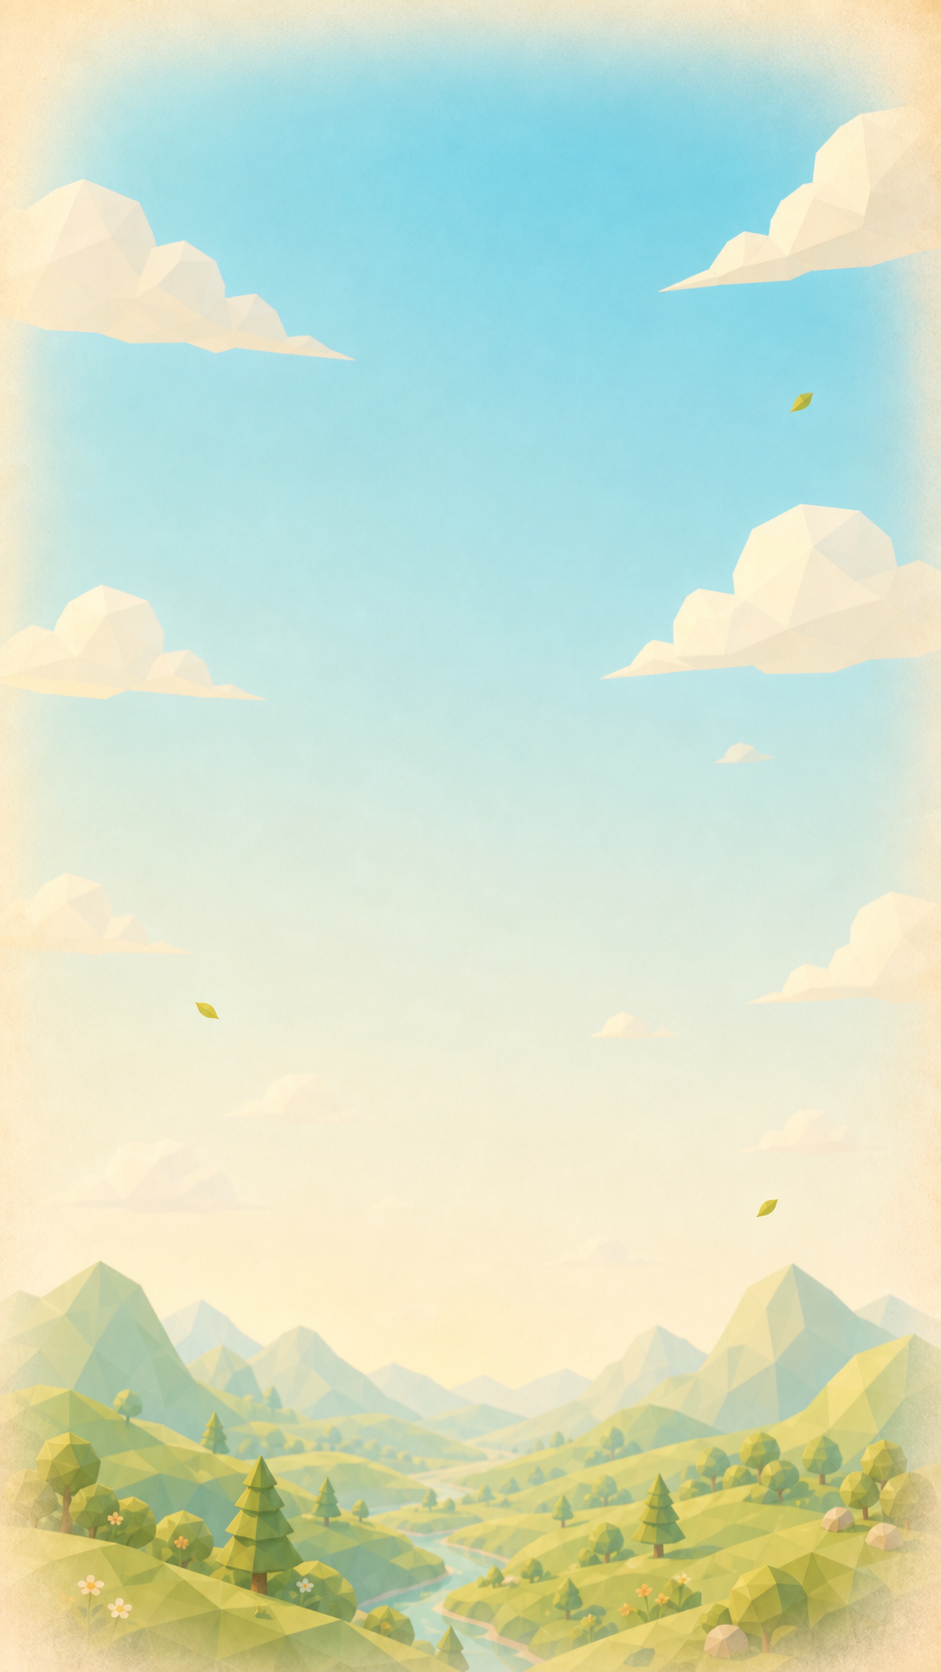
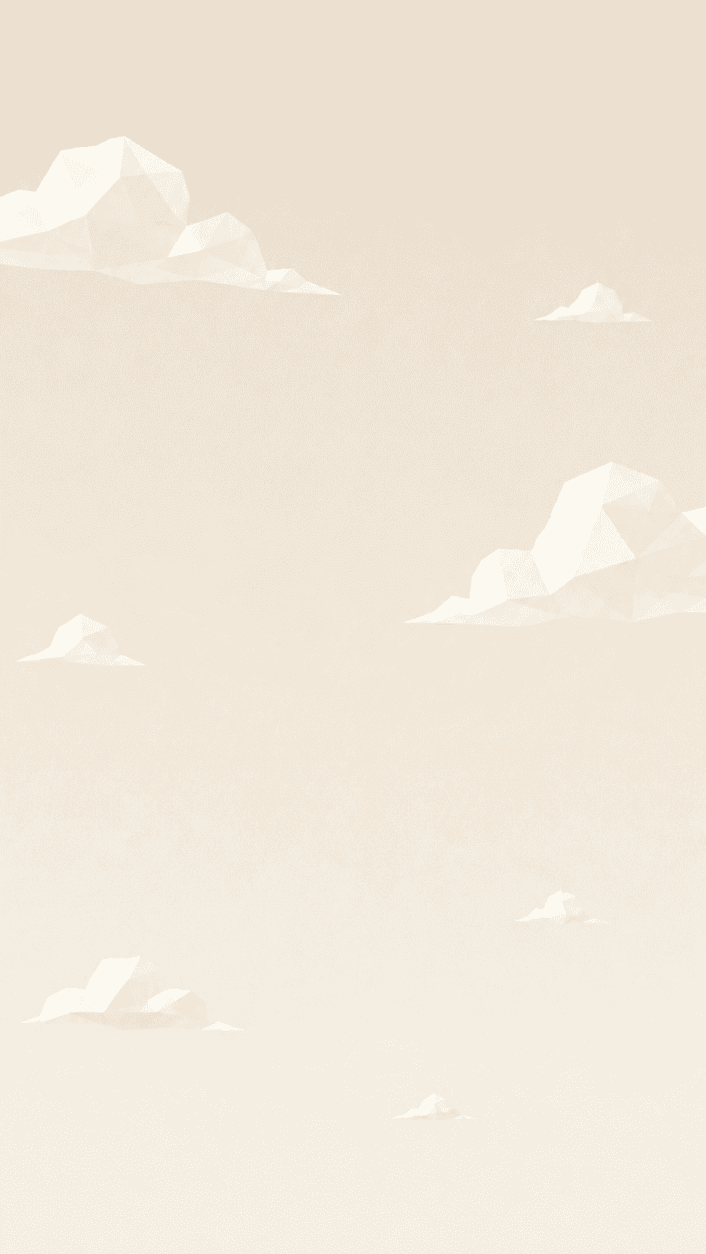
移除不再使用的 home-sky-ref.png 文件，更新 home-sky-soft.png 文件。调整 SceneCanvas 和 SkyWeather 组件以优化光照系统，改为固定的太阳和天气设置，简化代码结构。更新 House 组件以移除烟雾效果，优化 HUD 组件的样式和布局，提升用户体验。

diff --git a/src/components/scenes3d/SkyWeather.tsx b/src/components/scenes3d/SkyWeather.tsx
@@ -1,16 +1,9 @@
 "use client";
 
-import { useFrame } from "@react-three/fiber";
-import { useMemo, useRef } from "react";
 import * as THREE from "three";
 
-import { flatMaterial } from "./materials";
-
-// A small SUN + WEATHER system for the diorama. A directional "sun" arcs across
-// the sky on a slow day cycle (warm at the horizons, brighter+whiter at noon),
-// dragging the ambient/hemisphere fills with it; a drifting low-poly cloud layer
-// sits on top. Deliberately self-contained: it OWNS the scene's lights when
-// mounted, so SceneCanvas renders it instead of the static lights.
+// A small fixed SUN + WEATHER light rig for the diorama. It owns the scene's
+// lights when mounted, so SceneCanvas renders it instead of the static lights.
 // Kept light on purpose — only sunshine ("clear") and overcast ("cloudy"); the
 // sun does NOT cast real-time shadows (that was the home scene's biggest GPU
 // cost + WebGL-context-loss trigger). Grounding comes from SceneCanvas's cheap
@@ -41,109 +34,31 @@ function sunAt(t: number) {
   return { dir, color, intensity, elev, inDay };
 }
 
-function Cloud({ scale }: { scale: number }) {
-  const mat = flatMaterial("#fefdfa");
-  const puffs: [number, number, number, number][] = [
-    [0, 0, 0, 0.8],
-    [0.7, 0.04, 0.1, 0.58],
-    [-0.62, 0.02, -0.08, 0.54],
-    [0.18, 0.24, -0.05, 0.5],
-    [-0.2, 0.18, 0.12, 0.46],
-  ];
-  return (
-    <group scale={scale}>
-      {puffs.map(([x, y, z, r], i) => (
-        <mesh key={i} position={[x, y, z]} material={mat} scale={[1.3, 0.8, 1]}>
-          <icosahedronGeometry args={[r, 0]} />
-        </mesh>
-      ))}
-    </group>
-  );
-}
-
-function Clouds({ count }: { count: number }) {
-  const group = useRef<THREE.Group>(null);
-  const data = useMemo(
-    () =>
-      Array.from({ length: count }, (_, i) => {
-        const s = Math.sin(i * 53.7) * 1000;
-        const r = (n: number) => {
-          const v = Math.sin(i * 12.9 + n) * 4375.85;
-          return v - Math.floor(v);
-        };
-        return {
-          x: (r(1) - 0.5) * 26,
-          y: 11.5 + r(2) * 3.5, // up in the sky, clear of the house
-          z: -3 - r(3) * 10, // set back behind the diorama
-          scale: 0.95 + r(4) * 1.05,
-          speed: 0.15 + r(5) * 0.2,
-          phase: s - Math.floor(s),
-        };
-      }),
-    [count],
-  );
-  useFrame((_, dt) => {
-    const g = group.current;
-    if (!g) return;
-    g.children.forEach((c, i) => {
-      c.position.x += data[i].speed * dt;
-      if (c.position.x > 14) c.position.x = -14;
-    });
-  });
-  return (
-    <group ref={group}>
-      {data.map((d, i) => (
-        <group key={i} position={[d.x, d.y, d.z]}>
-          <Cloud scale={d.scale} />
-        </group>
-      ))}
-    </group>
-  );
-}
-
 export default function SkyWeather({
   weather = "clear",
-  speed = 0,
   start = 0.47,
 }: {
   weather?: Weather;
-  speed?: number; // day fraction per second. Home defaults to fixed noon.
+  speed?: number; // retained for API compatibility; the home light is fixed.
   start?: number; // initial time-of-day (0.47 = soft late morning)
 }) {
-  const sun = useRef<THREE.DirectionalLight>(null);
-  const hemi = useRef<THREE.HemisphereLight>(null);
-  const amb = useRef<THREE.AmbientLight>(null);
-  const t = useRef(start);
+  const s = sunAt(start);
   const wDim = weather === "clear" ? 1 : 0.8;
-  const clouds = weather === "clear" ? 4 : 8;
-
-  useFrame((_, dt) => {
-    t.current = (t.current + dt * speed) % 1;
-    const s = sunAt(t.current);
-    if (sun.current) {
-      sun.current.position.copy(s.dir);
-      sun.current.color.copy(s.color);
-      sun.current.intensity = s.intensity * wDim;
-    }
-    if (amb.current)
-      amb.current.intensity = (0.34 + s.elev * 0.08) * (weather === "cloudy" ? 1.1 : 1);
-    if (hemi.current) hemi.current.intensity = (0.46 + s.elev * 0.12) * wDim;
-  });
+  const ambientIntensity = (0.34 + s.elev * 0.08) * (weather === "cloudy" ? 1.1 : 1);
+  const hemiIntensity = (0.46 + s.elev * 0.12) * wDim;
 
   return (
     <>
-      <hemisphereLight ref={hemi} args={["#fffdfa", "#eadbbd", 0.54]} />
-      <ambientLight ref={amb} intensity={0.4} color="#fff7ee" />
-      {/* day-cycle sun — lights only, no real-time shadow map (see file header) */}
+      <hemisphereLight args={["#fffdfa", "#eadbbd", hemiIntensity]} />
+      <ambientLight intensity={ambientIntensity} color="#fff7ee" />
+      {/* fixed sun — lights only, no real-time shadow map (see file header) */}
       <directionalLight
-        ref={sun}
-        position={[8, 12, 5]}
-        intensity={1.86}
-        color="#fff1d2"
+        position={[s.dir.x, s.dir.y, s.dir.z]}
+        intensity={s.intensity * wDim}
+        color={s.color}
       />
       {/* cool sky bounce so shadowed faces still read */}
       <directionalLight position={[-7, 5, -3]} intensity={0.36} color="#d7e5f8" />
-      <Clouds count={clouds} />
     </>
   );
 }

diff --git a/src/components/scenes3d/home/parts/House.tsx b/src/components/scenes3d/home/parts/House.tsx
@@ -1,8 +1,8 @@
 "use client";
 
 import { RoundedBox } from "@react-three/drei";
-import { useFrame, type ThreeEvent } from "@react-three/fiber";
-import { useMemo, useRef } from "react";
+import type { ThreeEvent } from "@react-three/fiber";
+import { useMemo } from "react";
 import * as THREE from "three";
 import { getDestination } from "@/game/destinations";
 import type { DestinationTheme } from "@/game/types";
@@ -501,26 +501,8 @@ function RoofSlope({
   );
 }
 
-// A stone chimney with a lazily rising, looping plume of faceted smoke puffs —
-// the cottage's "someone's home" signal (placed in the roof group's local space).
+// A small stone chimney placed in the roof group's local space.
 function Chimney() {
-  const smoke = useRef<THREE.Group>(null);
-  useFrame((s) => {
-    const g = smoke.current;
-    if (!g) return;
-    const t = s.clock.elapsedTime;
-    const n = g.children.length;
-    g.children.forEach((c, i) => {
-      const mesh = c as THREE.Mesh;
-      const phase = ((t / 4.2 + i / n) % 1 + 1) % 1;
-      mesh.position.y = phase * 2.4;
-      mesh.position.x = Math.sin(phase * 3 + i) * 0.26;
-      // big billowing puffs: start chunky off the stack, swell as they rise
-      mesh.scale.setScalar(0.7 + phase * 1.25);
-      const mat = mesh.material as THREE.MeshStandardMaterial;
-      mat.opacity = 0.72 * (1 - phase) * Math.min(1, phase * 4);
-    });
-  });
   return (
     <group position={[0.55, 0.72, -1.0]}>
       {/* gray faceted STONE stack on the right slope */}
@@ -545,21 +527,6 @@ function Chimney() {
         <boxGeometry args={[0.58, 0.14, 0.58]} />
         {m("#6f6759")}
       </mesh>
-      <group ref={smoke} position={[0, 1.34, 0]}>
-        {Array.from({ length: 8 }).map((_, i) => (
-          <mesh key={i}>
-            <icosahedronGeometry args={[0.28, 0]} />
-            <meshStandardMaterial
-              color="#f4f1ea"
-              transparent
-              opacity={0.62}
-              roughness={1}
-              flatShading
-              depthWrite={false}
-            />
-          </mesh>
-        ))}
-      </group>
     </group>
   );
 }
@@ -764,7 +731,7 @@ export default function House({
             <Beam a={[gx, 0.04, 2.22]} b={[gx, 1.78, 0.04]} w={0.15} color={WOOD} />
           </group>
         ))}
-        {/* gray STONE chimney + big smoke, on the RIGHT slope above the hearth */}
+        {/* gray STONE chimney on the RIGHT slope above the hearth */}
         <Chimney />
       </group>
 
@@ -948,8 +915,8 @@ export default function House({
           <MiniCapy pos={[0.2, 0.04, 0]} />
         </group>
         <Frame pos={[-2.5, 1.42, ZB + 0.12]} color="#9ec3d6" w={0.36} h={0.42} />
-        {/* (indoor stone fireplace + chimney breast removed per request — the
-            loft is kept simple; only the small roof chimney + smoke remain) */}
+      {/* (indoor stone fireplace + chimney breast removed per request — the
+            loft is kept simple; only the small roof chimney remains) */}
       </group>
 
       {/* outdoor notice board by the entrance (diegetic -> album). Self-contained

diff --git a/src/components/screens/HomeScreen.tsx b/src/components/screens/HomeScreen.tsx
@@ -56,12 +56,9 @@ function HudIconTile({
     <button
       onClick={onClick}
       aria-label={label}
-      className="ui-wood-surface ui-wood-press pointer-events-auto grid h-[66px] w-[58px] shrink-0 place-items-center rounded-[18px] pb-1.5 pt-1.5 text-ink"
+      className="ui-wood-surface ui-wood-press pointer-events-auto grid h-11 w-11 shrink-0 place-items-center rounded-full text-ink"
     >
-      <Icon name={icon} className="h-8 w-8 drop-shadow-[0_3px_2px_rgba(126,83,38,0.2)]" />
-      <span className="font-hand text-[12px] font-bold leading-none text-[#6b4f2e]">
-        {label}
-      </span>
+      <Icon name={icon} className="h-7 w-7 drop-shadow-[0_3px_2px_rgba(126,83,38,0.18)]" />
     </button>
   );
 }
@@ -237,27 +234,27 @@ export default function HomeScreen() {
         </SceneCanvas>
       </div>
 
-      {/* game HUD: owner pill + large tactile shortcut tiles */}
+      {/* game HUD: owner pill + compact controls */}
       <div className="pointer-events-none absolute inset-x-0 top-0 z-10 flex items-start justify-between gap-2 px-3.5 pt-4">
         <motion.button
           onClick={() => goTo("profile")}
           initial={{ opacity: 0, y: -8 }}
           animate={{ opacity: 1, y: 0 }}
           transition={{ duration: 0.4, ease: "easeOut" }}
-          className="ui-wood-surface ui-wood-press pointer-events-auto relative flex h-[72px] min-w-0 max-w-[calc(100%-128px)] flex-1 items-center rounded-[31px] py-2.5 pl-[80px] pr-4 text-left"
+          className="ui-wood-surface ui-wood-press pointer-events-auto relative flex h-16 w-[270px] max-w-[calc(100%-96px)] items-center rounded-[28px] py-2 pl-[70px] pr-3.5 text-left"
         >
           <span className="absolute left-2 top-1/2 -translate-y-1/2">
-            <span className="ui-icon-well h-[66px] w-[66px] rounded-full shadow-[0_8px_14px_-6px_rgba(90,60,30,0.42)]">
-              <CapyAvatar className="h-[58px] w-[58px] shrink-0" />
+            <span className="ui-icon-well h-[56px] w-[56px] rounded-full shadow-[0_8px_14px_-6px_rgba(90,60,30,0.4)]">
+              <CapyAvatar className="h-12 w-12 shrink-0" />
             </span>
           </span>
           <span className="min-w-0">
-            <span className="block truncate font-hand text-[22px] leading-none text-[#4f3828]">
+            <span className="block truncate font-hand text-[20px] leading-none text-[#4f3828]">
               {companion.name}
             </span>
-            <span className="mt-2 flex items-center gap-1.5 whitespace-nowrap text-[12px] leading-none text-ink-soft">
-              <LeafGlyph className="h-4 w-4" />
-              <span className="font-hand text-[14px] font-bold text-leaf">Lv.{stats.level}</span>
+            <span className="mt-1.5 flex items-center gap-1.5 whitespace-nowrap text-[11px] leading-none text-ink-soft">
+              <LeafGlyph className="h-3.5 w-3.5" />
+              <span className="font-hand text-[13px] font-bold text-leaf">Lv.{stats.level}</span>
               <span className="text-ink-soft/55">·</span>
               <span>{stats.days} 天</span>
             </span>
@@ -268,7 +265,7 @@ export default function HomeScreen() {
           initial={{ opacity: 0, y: -8 }}
           animate={{ opacity: 1, y: 0 }}
           transition={{ duration: 0.4, delay: 0.05, ease: "easeOut" }}
-          className="pointer-events-auto grid shrink-0 grid-cols-2 gap-2"
+          className="pointer-events-auto grid shrink-0 grid-cols-2 gap-1.5"
         >
           {bound && (
             <>

diff --git a/src/components/scenes3d/SceneCanvas.tsx b/src/components/scenes3d/SceneCanvas.tsx
@@ -24,8 +24,8 @@ interface SceneCanvasProps {
   minPolar?: number;
   maxPolar?: number;
   sun?: boolean; // enable a real shadow-casting sun
-  // Opt into the dynamic SUN + WEATHER system (a day-cycle sun + drifting clouds
-  // + optional rain). Replaces the static lights; the home diorama uses it.
+  // Opt into the dynamic SUN + WEATHER light system. Replaces the static lights;
+  // the home diorama uses it.
   sky?: boolean;
   weather?: Weather;
   // Opt into a Rapier (Rust→WASM) physics world wrapping the scene content.
@@ -237,7 +237,7 @@ export default function SceneCanvas({
       {sun && <ShadowEnabler />}
       {sky ? (
         <>
-          {/* dynamic day-cycle sun + drifting clouds + optional rain */}
+          {/* fixed sun + fill lights */}
           <SkyWeather weather={weather} />
           {/* soft contact shadows (小阴影) under the ground-level objects — adds
               grounding/depth without darkening the bright scene. far is low so it
@@ -248,7 +248,7 @@ export default function SceneCanvas({
             resolution={256}
             blur={2.6}
             far={1.7}
-            opacity={0.24}
+            opacity={0.32}
             color="#8a6a48"
           />
         </>

diff --git a/src/components/ui/MusicToggle.tsx b/src/components/ui/MusicToggle.tsx
@@ -30,12 +30,9 @@ export default function MusicToggle() {
       onClick={toggle}
       aria-label={on ? "关闭背景音乐" : "开启背景音乐"}
       aria-pressed={on}
-      className="ui-wood-surface ui-wood-press pointer-events-auto grid h-[66px] w-[58px] shrink-0 place-items-center rounded-[18px] pb-1.5 pt-1.5 text-ink"
+      className="ui-wood-surface ui-wood-press pointer-events-auto grid h-11 w-11 shrink-0 place-items-center rounded-full text-ink"
     >
-      <NoteIcon on={on} className="h-8 w-8 drop-shadow-[0_2px_2px_rgba(126,83,38,0.18)]" />
-      <span className="font-hand text-[12px] font-bold leading-none text-[#6b4f2e]">
-        音乐
-      </span>
+      <NoteIcon on={on} className="h-7 w-7 drop-shadow-[0_2px_2px_rgba(126,83,38,0.16)]" />
     </button>
   );
 }